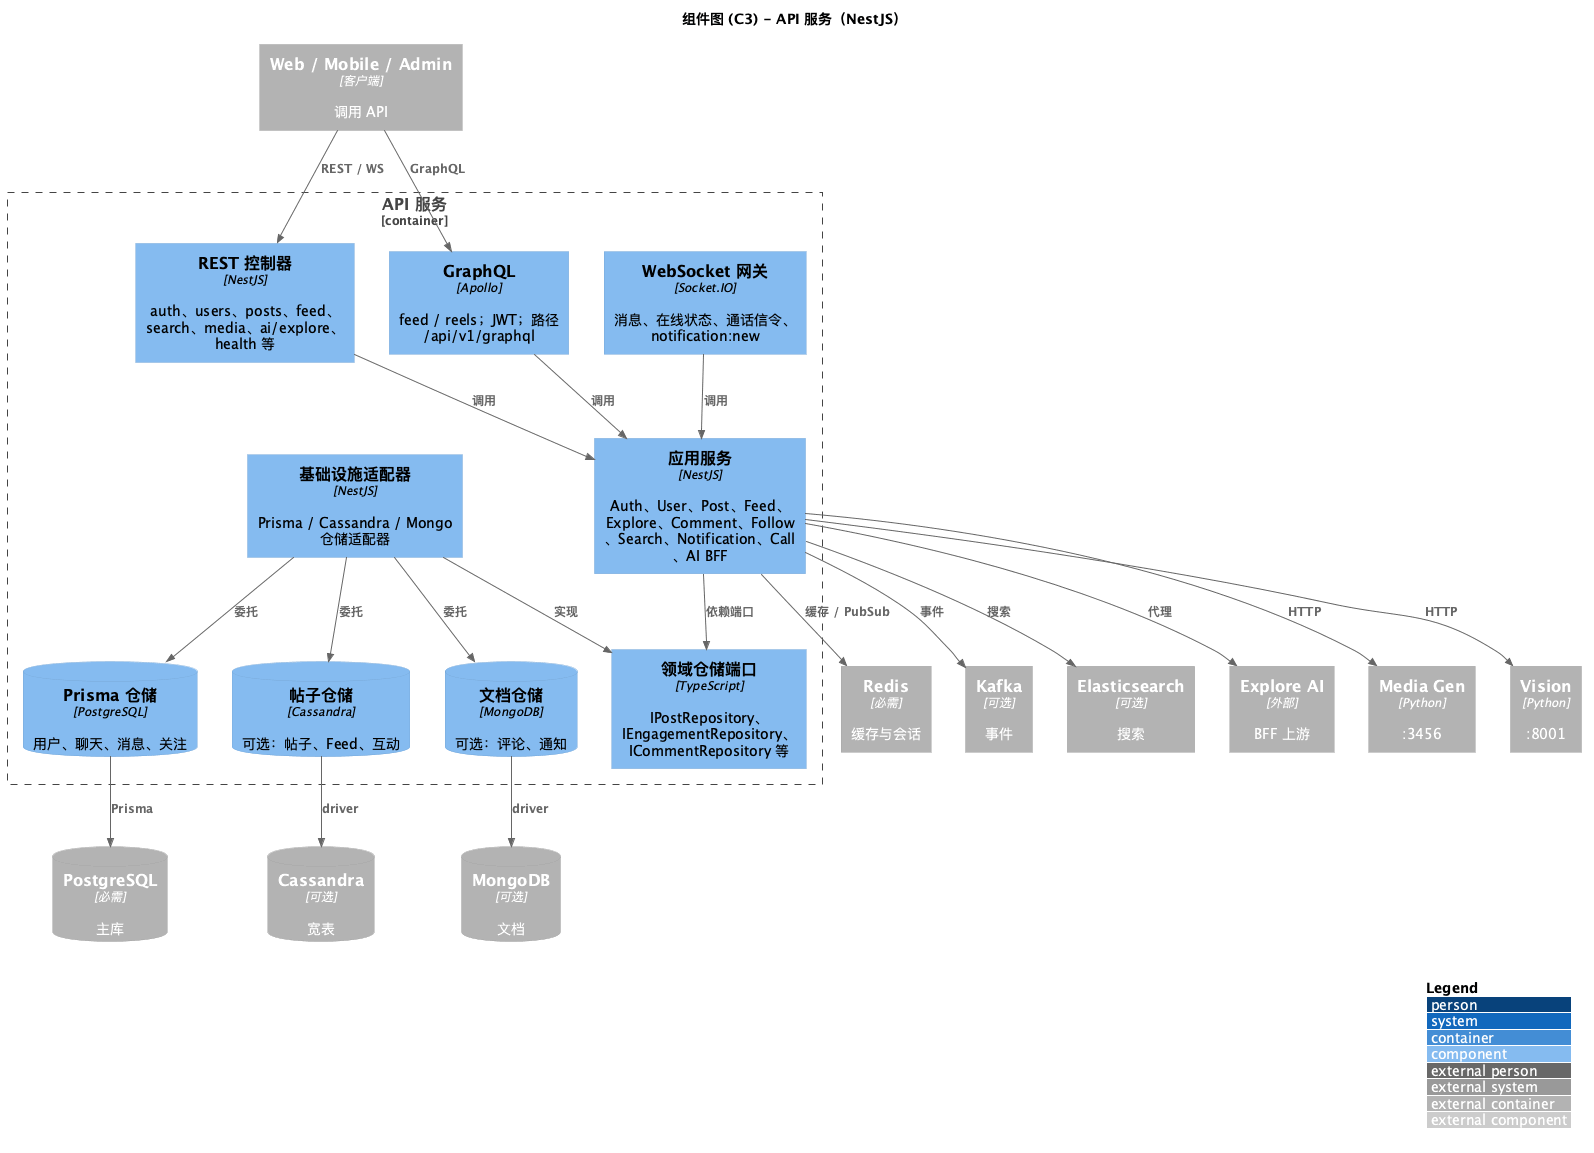
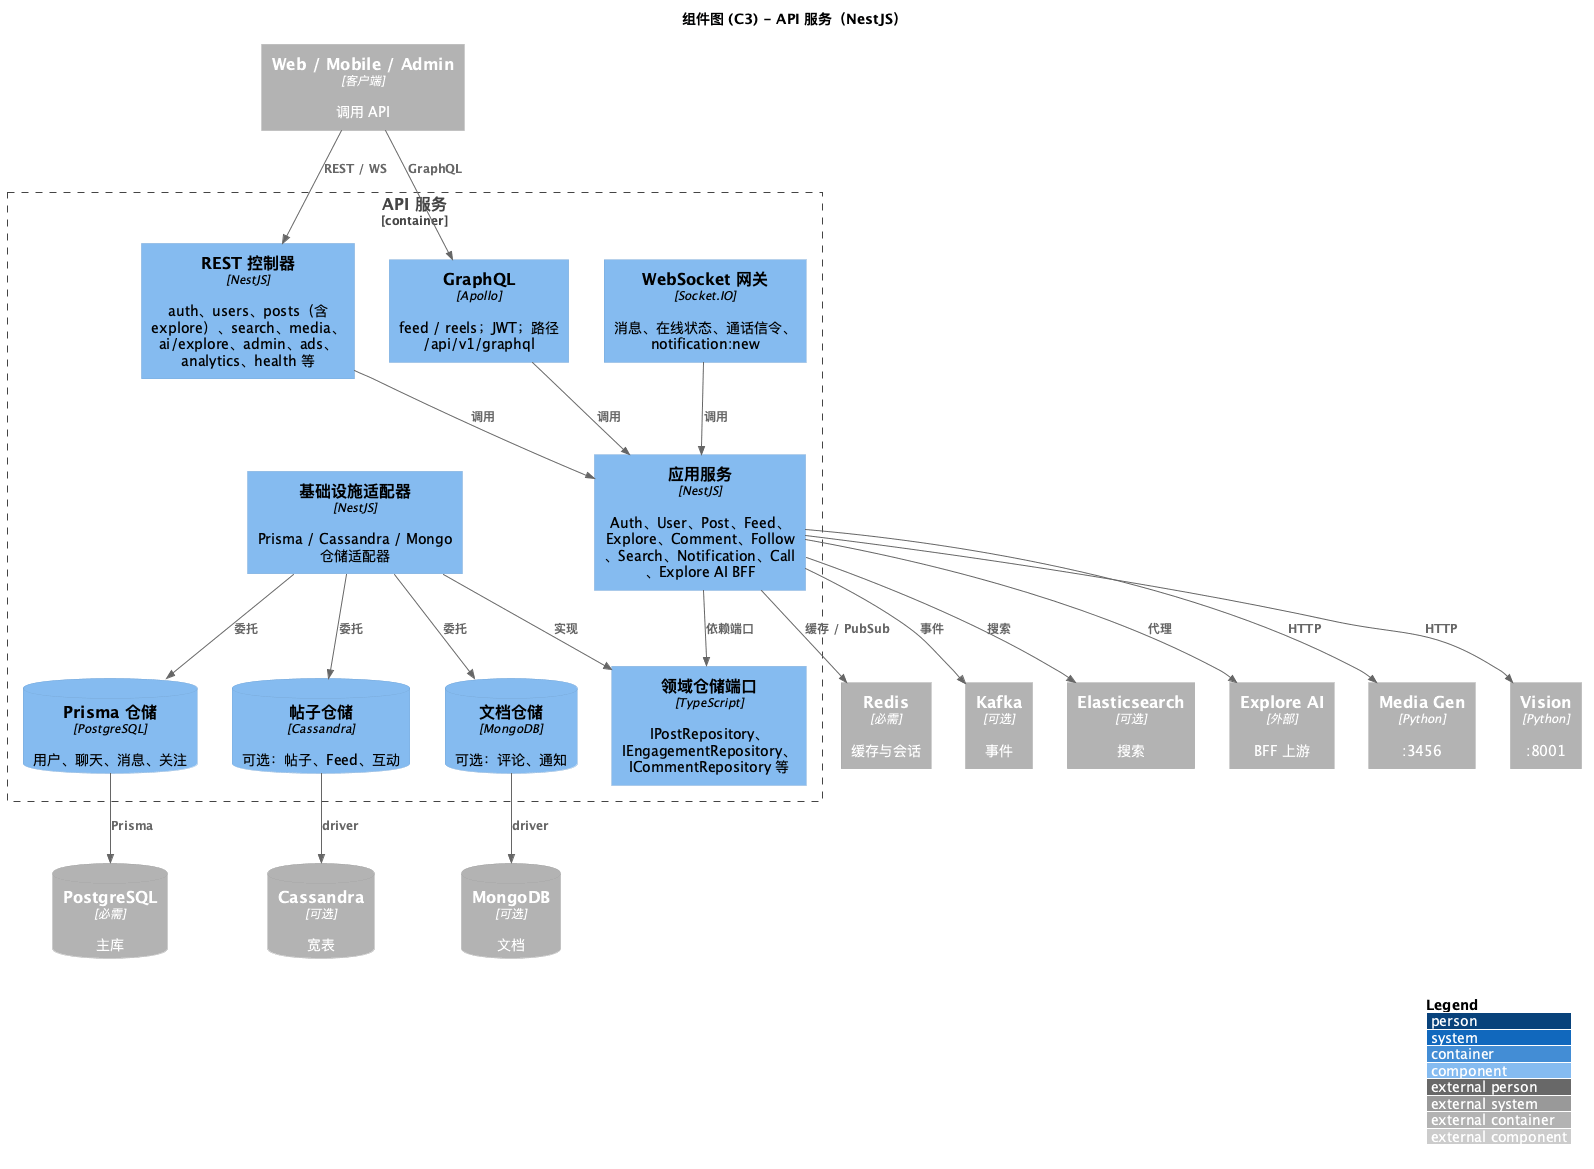
docs: align glossary and C4 with live Nest layout (#20)
Keep ubiquitous language and architecture diagrams consistent with running packages and ports so contributors stop trusting stale Explore/RAG edges.

References:
- [C4 model](https://c4model.com/)
- [Ubiquitous Language](https://martinfowler.com/bliki/UbiquitousLanguage.html)

diff --git a/docs/Glossary.md b/docs/Glossary.md
@@ -18,30 +18,34 @@ This document defines the project **Ubiquitous Language**. English terms are the
 
 ## 2. Business Domains | 业务域总览
 
-| Preferred Term | 中文            | Code / Package               | Frontend Surface | API Prefix                   | Notes                   |
-| -------------- | --------------- | ---------------------------- | ---------------- | ---------------------------- | ----------------------- |
-| Auth           | 认证            | `presentation/auth`          | 登录 / 注册      | `/api/v1/auth`               | JWT                     |
-| User           | 用户            | `presentation/users`         | 个人页           | `/api/v1/users`              | 资料、搜索              |
-| Chat           | 聊天            | `presentation/chats`         | 消息             | `/api/v1/chats`              | 会话列表                |
-| Message        | 消息            | `presentation/messages`      | 私信             | `/api/v1/messages`           | 实时经 Socket.IO        |
-| Call           | 通话            | `presentation/calls`         | WebRTC UI        | `/api/v1/calls`              | 信令                    |
-| Group          | 群组            | `presentation/groups`        | 群组             | `/api/v1/groups`             |                         |
-| Post           | 帖子            | `presentation/post`          | 发帖 / 网格      | `/api/v1/posts`              | mediaUrls、coverUrl     |
-| Feed           | 信息流          | GraphQL + feed services      | 首页 Feed        | `/api/v1/graphql`            | Query `feed`            |
-| Reels          | 短视频          | GraphQL                      | Reels Tab        | `/api/v1/graphql`            | Query `reels`           |
-| Explore        | 探索            | explore services             | 探索网格         | REST explore                 | Redis 缓存              |
-| Comment        | 评论            | `presentation/comments`      | 评论弹窗         | `/api/v1/posts/:id/comments` | Mongo 可选              |
-| Follow         | 关注            | `presentation/follow`        | 粉丝 / 关注      | `/api/v1/users`              |                         |
-| Search         | 搜索            | `presentation/search`        | 全局搜索         | `/api/v1/search`             | ES 可选                 |
-| Notification   | 通知            | `presentation/notifications` | 通知抽屉         | `/api/v1/notifications`      | WS `notification:new`   |
-| Media          | 媒体上传        | `presentation/media`         | 发帖上传         | `/api/v1/media`              | 本地盘 / 对象存储       |
-| Vision         | 视觉审核        | `presentation/vision`        | 发帖链路         | `/api/v1/vision`             | 旁路 Vision 服务        |
-| Analytics      | 分析            | `presentation/analytics`     | Admin            | `/api/v1/analytics`          |                         |
-| Ads            | 广告            | `presentation/ads`           | Admin            | `/api/v1/ads`                |                         |
-| Admin          | 管理            | `presentation/admin`         | Admin App        | `/api/v1/admin`              |                         |
-| AI Chat        | 本地 AI         | `presentation/ai`            | 文本生成         | `/api/v1/ai`                 | Ollama                  |
-| Explore AI BFF | Explore AI 代理 | `presentation/ai/explore`    | 经 Nest 代理     | `/api/v1/ai/explore`         | 客户端勿直连 Explore AI |
-| Health         | 健康检查        | `presentation/health`        | 运维             | `/api/v1/health`             |                         |
+| Preferred Term | 中文            | Code / Package                           | Frontend Surface | API Prefix                   | Notes                                            |
+| -------------- | --------------- | ---------------------------------------- | ---------------- | ---------------------------- | ------------------------------------------------ |
+| Auth           | 认证            | `presentation/auth`                      | 登录 / 注册      | `/api/v1/auth`               | JWT                                              |
+| User           | 用户            | `presentation/users`                     | 个人页           | `/api/v1/users`              | 资料、搜索                                       |
+| Chat           | 聊天            | `presentation/chats`                     | 消息             | `/api/v1/chats`              | 会话列表                                         |
+| Message        | 消息            | `presentation/messages`                  | 私信             | `/api/v1/messages`           | 实时经 Socket.IO                                 |
+| Call           | 通话            | `presentation/calls`                     | WebRTC UI        | `/api/v1/calls`              | 信令                                             |
+| Group          | 群组            | `presentation/groups`                    | 群组             | `/api/v1/groups`             |                                                  |
+| Post           | 帖子            | `presentation/post`                      | 发帖 / 网格      | `/api/v1/posts`              | mediaUrls、coverUrl                              |
+| Feed           | 信息流          | GraphQL + feed services                  | 首页 Feed        | `/api/v1/graphql`            | Query `feed`；另有 REST `GET /api/v1/posts/feed` |
+| Reels          | 短视频          | GraphQL                                  | Reels Tab        | `/api/v1/graphql`            | Query `reels`                                    |
+| Explore        | 探索            | `presentation/post` + ExploreService     | 探索网格         | `/api/v1/posts/explore`      | Redis 缓存                                       |
+| Comment        | 评论            | `presentation/comments`                  | 评论弹窗         | `/api/v1/posts/:id/comments` | Mongo 可选                                       |
+| Follow         | 关注            | `presentation/follow`                    | 粉丝 / 关注      | `/api/v1/users`              |                                                  |
+| Search         | 搜索            | `presentation/search`                    | 全局搜索         | `/api/v1/search`             | ES 可选                                          |
+| Notification   | 通知            | `presentation/notifications`             | 通知抽屉         | `/api/v1/notifications`      | WS `notification:new`                            |
+| Media          | 媒体上传        | `presentation/media`                     | 发帖上传         | `/api/v1/media`              | 本地盘 / 对象存储                                |
+| Status         | 状态            | `presentation/status`                    | Status UI        | `/api/v1/status`             | 24h 状态                                         |
+| Image Gen      | 图片生成        | `presentation/image`                     | 生成对话框       | `/api/v1/image`              | Nest → media-gen                                 |
+| Video Gen      | 视频生成        | `presentation/video`                     | 生成对话框       | `/api/v1/video`              | Nest → media-gen                                 |
+| Voice Gen      | 语音合成        | `presentation/voice`                     | 生成对话框       | `/api/v1/voice`              | Nest → media-gen                                 |
+| Vision         | 视觉审核        | `presentation/vision`                    | 发帖链路         | `/api/v1/vision`             | 旁路 Vision 服务                                 |
+| Analytics      | 分析            | `presentation/analytics`                 | Admin            | `/api/v1/analytics`          | Nest 内模块                                      |
+| Ads            | 广告            | `presentation/ads`                       | Admin            | `/api/v1/ads`                | Nest 内模块                                      |
+| Admin          | 管理            | `presentation/admin`                     | Admin App        | `/api/v1/admin`              | Nest 内模块                                      |
+| AI Chat        | 本地 AI         | `presentation/ai`                        | 文本生成         | `/api/v1/ai`                 | Ollama                                           |
+| Explore AI BFF | Explore AI 代理 | `presentation/ai`（ExploreAiController） | 经 Nest 代理     | `/api/v1/ai/explore`         | 客户端勿直连 Explore AI                          |
+| Health         | 健康检查        | `presentation/health`                    | 运维             | `/api/v1/health`             |                                                  |
 
 ```mermaid
 flowchart TB
@@ -65,14 +69,14 @@ flowchart TB
 
 ## 3. Preferred Terms | 术语表
 
-| Preferred Term  | 中文           | Definition                                       |
-| --------------- | -------------- | ------------------------------------------------ |
-| WhatsFeed       | WhatsFeed      | 社交 + 即时通讯产品（代码中亦称 WhatsChat）      |
-| Cover URL       | 封面 URL       | 视频帖封面图地址；与 mediaUrls 分离              |
-| Feed Entry      | 信息流条目     | Feed 中的一条 Post 引用                          |
-| Engagement      | 互动           | 点赞、收藏及计数                                 |
-| Explore AI BFF  | Explore AI BFF | Nest 服务间代理；`X-Service-Key` + `X-Client-Id` |
-| Client Identity | 客户端身份     | 映射到 Explore AI 的稳定客户端 ID（UUID）        |
+| Preferred Term  | 中文           | Definition                                               |
+| --------------- | -------------- | -------------------------------------------------------- |
+| WhatsFeed       | WhatsFeed      | 社交 + 即时通讯产品；npm scope `@whatschat/*` 为历史包名 |
+| Cover URL       | 封面 URL       | 视频帖封面图地址；与 mediaUrls 分离                      |
+| Feed Entry      | 信息流条目     | Feed 中的一条 Post 引用                                  |
+| Engagement      | 互动           | 点赞、收藏及计数                                         |
+| Explore AI BFF  | Explore AI BFF | Nest 服务间代理；`X-Service-Key` + `X-Client-Id`         |
+| Client Identity | 客户端身份     | 映射到 Explore AI 的稳定客户端 ID（UUID）                |
 
 ---
 

diff --git a/docs/developer/c4-model/README.md b/docs/developer/c4-model/README.md
@@ -4,6 +4,8 @@
 
 产品交付状态见 [User Story Map](../../product-owner/User-Story-Map.md)。本目录聚焦 **C4 软件架构**。
 
+> **注意**：以 `.puml` 为准；改图后应重渲 `png/`。
+
 ## 文件
 
 | 文件                            | 层级 | 说明                                                      |
